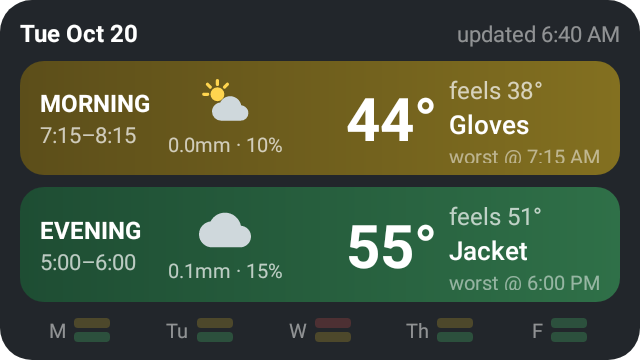
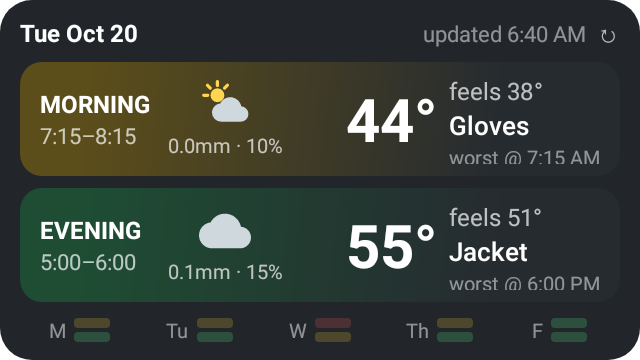
Soften severity gradients; fix status bar overlap, settings back nav, zero state
- Row/card gradients: severity color anchors the left and feathers out
  into neutral dark slate (#262B30) before the right edge, with a slight
  diagonal tilt. Widget drawables became vector gradients (shape
  gradients can't do sub-45-degree angles or offset stops); the forecast
  cards draw a matching size-aware linear gradient.
- Forecast and settings top bars now apply status bar insets — target
  SDK 35 enforces edge-to-edge and the title was drawing under the
  clock.
- Settings gets a proper top bar with a back arrow.
- Unconfigured zero state: forecast screen shows a centered explanation
  with a "Set up locations" button instead of an indefinite spinner.

Claude-Session: https://claude.ai/code/session_01GL4r9EnAW5qPBhsxD8CyMR

diff --git a/app/src/main/java/com/bikeability/commute/forecast/ForecastScreen.kt b/app/src/main/java/com/bikeability/commute/forecast/ForecastScreen.kt
@@ -1,7 +1,6 @@
 package com.bikeability.commute.forecast
 
 import androidx.compose.foundation.Image
-import androidx.compose.foundation.background
 import androidx.compose.foundation.layout.Arrangement
 import androidx.compose.foundation.layout.Box
 import androidx.compose.foundation.layout.Column
@@ -13,12 +12,14 @@ import androidx.compose.foundation.layout.fillMaxWidth
 import androidx.compose.foundation.layout.height
 import androidx.compose.foundation.layout.padding
 import androidx.compose.foundation.layout.size
+import androidx.compose.foundation.layout.statusBarsPadding
 import androidx.compose.foundation.layout.width
 import androidx.compose.foundation.lazy.LazyColumn
 import androidx.compose.foundation.lazy.items
 import androidx.compose.foundation.shape.RoundedCornerShape
 import androidx.compose.material.icons.Icons
 import androidx.compose.material.icons.filled.Settings
+import androidx.compose.material3.Button
 import androidx.compose.material3.CircularProgressIndicator
 import androidx.compose.material3.Icon
 import androidx.compose.material3.IconButton
@@ -29,6 +30,8 @@ import androidx.compose.runtime.Composable
 import androidx.compose.ui.Alignment
 import androidx.compose.ui.Modifier
 import androidx.compose.ui.draw.clip
+import androidx.compose.ui.draw.drawBehind
+import androidx.compose.ui.geometry.Offset
 import androidx.compose.ui.graphics.Brush
 import androidx.compose.ui.graphics.Color
 import androidx.compose.ui.res.painterResource
@@ -51,6 +54,9 @@ fun ForecastScreen(data: WidgetData?, onOpenSettings: () -> Unit) {
             Row(
                 modifier = Modifier
                     .fillMaxWidth()
+                    // Edge-to-edge is enforced on target SDK 35; keep the
+                    // title clear of the status bar.
+                    .statusBarsPadding()
                     .padding(start = 16.dp, end = 4.dp, top = 8.dp),
                 verticalAlignment = Alignment.CenterVertically,
             ) {
@@ -72,14 +78,25 @@ fun ForecastScreen(data: WidgetData?, onOpenSettings: () -> Unit) {
         },
     ) { padding ->
         if (data == null || data.days.isEmpty()) {
-            Box(Modifier.fillMaxSize().padding(padding), contentAlignment = Alignment.Center) {
+            Box(
+                Modifier.fillMaxSize().padding(padding).padding(horizontal = 32.dp),
+                contentAlignment = Alignment.Center,
+            ) {
                 Column(horizontalAlignment = Alignment.CenterHorizontally) {
-                    CircularProgressIndicator()
-                    Spacer(Modifier.height(12.dp))
-                    Text(
-                        data?.message ?: "Loading forecast…",
-                        style = MaterialTheme.typography.bodyMedium,
-                    )
+                    if (data?.message != null) {
+                        // Zero state: not configured yet (or no data and no cache).
+                        Text(
+                            data.message,
+                            style = MaterialTheme.typography.bodyLarge,
+                            textAlign = androidx.compose.ui.text.style.TextAlign.Center,
+                        )
+                        Spacer(Modifier.height(16.dp))
+                        Button(onClick = onOpenSettings) { Text("Set up locations") }
+                    } else {
+                        CircularProgressIndicator()
+                        Spacer(Modifier.height(12.dp))
+                        Text("Loading forecast…", style = MaterialTheme.typography.bodyMedium)
+                    }
                 }
             }
         } else {
@@ -119,11 +136,27 @@ private fun DayCard(day: DayDetail) {
 /** Same anatomy and tints as a widget row, in regular Compose. */
 @Composable
 private fun WindowCard(w: WindowUi) {
+    val tint = severityColor(w.severity)
     Row(
         modifier = Modifier
             .fillMaxWidth()
             .clip(RoundedCornerShape(12.dp))
-            .background(Brush.horizontalGradient(severityGradient(w.severity)))
+            .drawBehind {
+                // Severity tint feathers out into neutral slate before the
+                // right edge, with a slight diagonal tilt (same as the widget).
+                drawRect(
+                    Brush.linearGradient(
+                        colorStops = arrayOf(
+                            0f to tint,
+                            0.12f to tint,
+                            0.9f to slate,
+                            1f to slate,
+                        ),
+                        start = Offset(0f, size.height * 0.25f),
+                        end = Offset(size.width * 0.88f, size.height * 0.85f),
+                    ),
+                )
+            }
             .padding(horizontal = 12.dp, vertical = 10.dp),
         verticalAlignment = Alignment.CenterVertically,
     ) {
@@ -150,8 +183,10 @@ private fun WindowCard(w: WindowUi) {
     }
 }
 
-private fun severityGradient(severity: String): List<Color> = when (severity) {
-    "RED" -> listOf(Color(0xFF5C2323), Color(0xFF833030))
-    "YELLOW" -> listOf(Color(0xFF5C4E1A), Color(0xFF837020))
-    else -> listOf(Color(0xFF1E4D33), Color(0xFF2F7048))
+private val slate = Color(0xFF262B30)
+
+private fun severityColor(severity: String): Color = when (severity) {
+    "RED" -> Color(0xFF5C2323)
+    "YELLOW" -> Color(0xFF5C4E1A)
+    else -> Color(0xFF1E4D33)
 }

diff --git a/app/src/main/java/com/bikeability/commute/settings/SettingsScreen.kt b/app/src/main/java/com/bikeability/commute/settings/SettingsScreen.kt
@@ -10,11 +10,16 @@ import androidx.compose.foundation.layout.fillMaxSize
 import androidx.compose.foundation.layout.fillMaxWidth
 import androidx.compose.foundation.layout.height
 import androidx.compose.foundation.layout.padding
+import androidx.compose.foundation.layout.statusBarsPadding
 import androidx.compose.foundation.layout.width
 import androidx.compose.foundation.rememberScrollState
 import androidx.compose.foundation.verticalScroll
+import androidx.compose.material.icons.Icons
+import androidx.compose.material.icons.automirrored.filled.ArrowBack
 import androidx.compose.material3.Button
 import androidx.compose.material3.HorizontalDivider
+import androidx.compose.material3.Icon
+import androidx.compose.material3.IconButton
 import androidx.compose.material3.MaterialTheme
 import androidx.compose.material3.OutlinedButton
 import androidx.compose.material3.OutlinedTextField
@@ -54,7 +59,7 @@ import kotlinx.coroutines.withContext
 import java.time.LocalTime
 
 @Composable
-fun SettingsScreen() {
+fun SettingsScreen(onBack: () -> Unit = {}) {
     val context = LocalContext.current
     val scope = rememberCoroutineScope()
     val snackbar = remember { SnackbarHostState() }
@@ -68,7 +73,23 @@ fun SettingsScreen() {
         loaded = true
     }
 
-    Scaffold(snackbarHost = { SnackbarHost(snackbar) }) { padding ->
+    Scaffold(
+        snackbarHost = { SnackbarHost(snackbar) },
+        topBar = {
+            Row(
+                modifier = Modifier
+                    .fillMaxWidth()
+                    .statusBarsPadding()
+                    .padding(top = 4.dp, end = 16.dp),
+                verticalAlignment = Alignment.CenterVertically,
+            ) {
+                IconButton(onClick = onBack) {
+                    Icon(Icons.AutoMirrored.Filled.ArrowBack, contentDescription = "Back")
+                }
+                Text("Settings", style = MaterialTheme.typography.titleLarge)
+            }
+        },
+    ) { padding ->
         if (!loaded) return@Scaffold
         Column(
             modifier = Modifier
@@ -78,9 +99,6 @@ fun SettingsScreen() {
                 .verticalScroll(rememberScrollState()),
             verticalArrangement = Arrangement.spacedBy(8.dp),
         ) {
-            Spacer(Modifier.height(8.dp))
-            Text("Commute Weather", style = MaterialTheme.typography.headlineSmall)
-
             SectionTitle("Locations")
             EndpointEditor("Home", form.home, { form = form.copy(home = it) }, snackbar)
             EndpointEditor("Work", form.work, { form = form.copy(work = it) }, snackbar)

diff --git a/app/src/test/java/com/bikeability/commute/forecast/ForecastScreenshotTest.kt b/app/src/test/java/com/bikeability/commute/forecast/ForecastScreenshotTest.kt
@@ -105,4 +105,15 @@ class ForecastScreenshotTest {
         val file = renderToPng("forecast-loading") { ForecastScreen(data = null, onOpenSettings = {}) }
         assertTrue(file.length() > 0)
     }
+
+    @Test
+    fun `unconfigured zero state offers setup`() {
+        val data = WidgetData(
+            dateLabel = "Fri Jul 11",
+            updatedLabel = "6:52 AM",
+            message = "Set home & work locations to get started",
+        )
+        val file = renderToPng("forecast-unconfigured") { ForecastScreen(data = data, onOpenSettings = {}) }
+        assertTrue(file.length() > 0)
+    }
 }

diff --git a/app/src/main/java/com/bikeability/commute/settings/SettingsActivity.kt b/app/src/main/java/com/bikeability/commute/settings/SettingsActivity.kt
@@ -12,7 +12,7 @@ class SettingsActivity : ComponentActivity() {
         super.onCreate(savedInstanceState)
         setContent {
             MaterialTheme(colorScheme = darkColorScheme()) {
-                Surface { SettingsScreen() }
+                Surface { SettingsScreen(onBack = { finish() }) }
             }
         }
     }

diff --git a/app/src/main/java/com/bikeability/commute/widget/RefreshWorker.kt b/app/src/main/java/com/bikeability/commute/widget/RefreshWorker.kt
@@ -36,7 +36,7 @@ class RefreshWorker(
                 WidgetData(
                     dateLabel = formatDateLabel(now),
                     updatedLabel = formatTimeLabel(now),
-                    message = "Tap to set home & work locations",
+                    message = "Set home & work locations to get started",
                 ),
             )
             return Result.success()